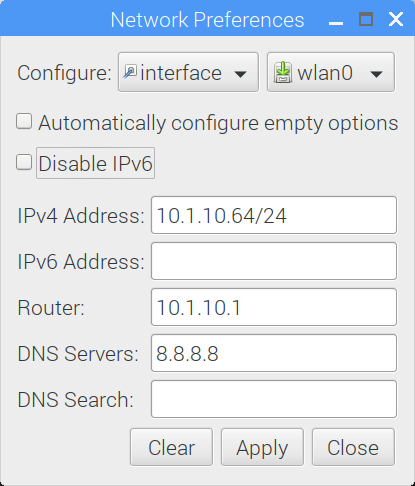
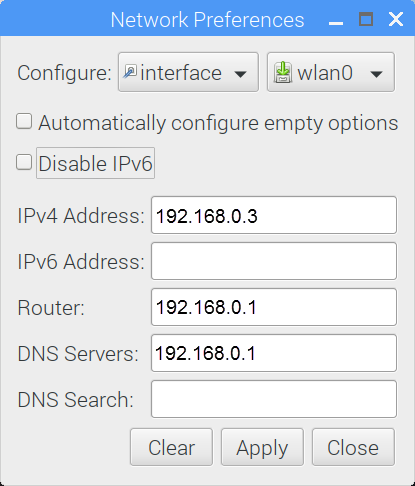
IMAC-21: Network config instuctions; plus other changes

Changed region(s): [[0.3759, 0.4321, 0.694, 0.463], [0.3759, 0.7099, 0.6361, 0.7407], [0.3759, 0.6173, 0.6361, 0.6481]]

diff --git a/website/static/css/custom.css b/website/static/css/custom.css
@@ -1,4 +1,9 @@
 /* your custom css */
+.wrapper {
+  margin: 0px;
+  max-width: 100%;
+}
+
 .tutorial-video {
   margin: 0;
 }
@@ -6,6 +11,12 @@
 .fbOpenSource {
   text-align: center;
 }
+
+@media only screen and (min-width: 1024px) {
+  .separateOnPageNav .wrapper,
+  .separateOnPageNav .headerWrapper.wrapper {
+    max-width: 100%;
+  }
 
 @media only screen and (min-device-width: 360px) and (max-device-width: 736px) {
   .homeWrapperBgImg img {

diff --git a/docs/intro.md b/docs/intro.md
@@ -4,15 +4,15 @@ title: Introduction
 sidebar_label: Introduction
 ---
 
-***INTELLIDRIVES MULTI-AXIS MOTION and AUTOMATION CONTROLLER*** is a network based general purpose motion/automation controller with embedded intuitive **IBLOCK®** programming capability.
+***IMAC or INTELLIDRIVES MULTI-AXIS MOTION and AUTOMATION CONTROLLER*** is a network based general purpose motion/automation controller with embedded intuitive visual programming capability.
 
-## Visual Block Programming Environment
+## IMAC Editor
 
-**IBLOCK®** visual block programming environment runs in the web browser on any hardware and software platforms. **IBLOCK®** uses functional blocks linked together to create complex multi-axis motion control sequences of different motor types interacting with digital and analog I/O and vision systems.
+**IMAC Editor** is software application that runs in the web browser and uses graphical blocks to create complex sequences for controlling different stepper and servo motors, digital and analog I/O and vision systems.
 
 ![Visual Block Programming Environment](assets/vbpi_1.png "Visual Block Programming Environment")
 
-**IBLOCK® Visual Editor** uses graphical blocks to represent motion commands, control of the input/output devices, variables, logic expressions, math, loops and more without having to worry about complexities of the programming languages.
+Graphical blocks represent motion commands, control of the input/output devices, variables, logic expressions, math, loops and more. User doesn't have to worry about complexities of the programming languages.
 
 ## Hardware
 
@@ -22,28 +22,14 @@ As a stand-alone controller, IMAC can take the place of a PC in a control system
 **IMAC** can also be configured to work in conjunction with a PC where the IMAC handles the real-time processes such as motion control and automation, and the PC is used as programming environment and GUI
 
 #### Main Features:
--	Multi-axis (up to 32 axes) motion control over distributed **INET®** network
--	Digital and Analog I/O handling over **INET®** network
+-	Multi-axis (up to 32 axes) motion control
+-	Handling Digital and Analog I/O
 -	Simple and Visual creation of complex machine operational sequences
--	No programming experience necessary, just lay **IBLOCKS** in sequence
+-	No programming experience necessary, just lay graphical blocks in sequence
 -	Graphical HMI Designer
 
 ![3-axis system with I/O data acquisition](assets/assembly.jpg "3-axis system with I/O data acquisition")
 3-axis system with I/O data acquisition
-
-## IDRIVES®
-
-**IDrives®** provide user with a performance edge. Advanced tuning and commutation algorithms, made possible by state-of-the-art DSP technology to maximize motor performance. **I-DRIVES®** offer a complete range of AC- and DC-powered digital drives for servo and stepper motors.
-
-![Amplifiers](assets/group_of_amps.jpg "Amplifiers")
-
-| Motor   | Rotary Servo and Stepper Motors<br> Linear Servo and Stepper Motors<br> Direct drive motors |
-| ------- | ------------------------------------------------------------------------------------------- |
-| Input power | 100-240 VAC<br> 24-90 VDC |
-| Feedback | Incremental<br> Analog 1Vpp<br> Absolute |
-| Digital I/O | Limit sensors |
-| Analog I/O | Home sensors<br> User input sourcing nad sinking sensors<br> Opto-isolated sensors<br> Outputs<br> Relay drivers<br> A/D<br> D/A |
-
 
 ## System Architecture
 

diff --git a/docs/net_config.md b/docs/net_config.md
@@ -4,17 +4,45 @@ title: Network configuration
 sidebar_label: Network configuration
 ---
 
-**IMAC** is preconfigured to get IP address automatically from DHCP server. If your network is configured to provide IP addresses automatically you are good. Setting the static IP addresses is the only case when user needs to configure IMAC network settings. To accomplish this task you follow instructions below:
+**IMAC** is preconfigured to get IP address automatically from DHCP server. If your network is configured to provide IP addresses automatically you are good. IMAC can be used in isolated networks where IMAC and user computer are connected directly over [Ethernet Crossover cable](https://en.wikipedia.org/wiki/Ethernet_crossover_cable) or using the router. To accomplish this task you follow instructions below:
+
+## Network configuration with static IP
+
+### User PC network configuration
+
+1. On user computer with Windows operating system go to Control Panel -> Network and Internet -> Network Connections
+
+![Windows: network connections](assets/net_config_win_1.png "Windows: network connections")
+
+2. Right click on Ethernet connection and select Properties.
+
+![Windows: Ethernet Properties](assets/net_config_win_2.png "Windows: Ethernet Properties")
+
+3. Scroll down, select TCP/IPv4 and click Properties
+
+  Configure TCP/IP properties 
+
+  A. For connection over crossover cable
+
+![Windows: TCP/IPv4 Properties](assets/net_config_win_3.png "Windows: TCP/IPv4 Properties")
+
+  B. For connection using router
+
+![Windows: TCP/IPv4 Properties](assets/net_config_win_4.png "Windows: TCP/IPv4 Properties")
+
+4. Apply changes and close dialog windows. Now you have to set up IMAC network configuration.
+
+### IMAC network configuration
 
 1.	Connect keyboard, mouse and HDMI monitor to IMAC. Power it up and wait OS loading is completed.
 
-![Standalone(No PC Required)](assets/arch_1.jpg "Standalone(No PC Required)")
+![IMAC plus monitor, keyboard and mouse](assets/net_config_1.jpg "IMAC plus monitor, keyboard and mouse")
 
 2.	Right click on the icon as shown and left click Wireless & Wired Network Settings.
 
 ![Wireless & Wired Network Settings](assets/net_config_2.png "Wireless & Wired Network Settings")
 
-3.	Select the interface. Select `eth0` for wired or `wlan0` for wireless. Assign IP address from the range your network is working. For example, type `10.1.10.64/24` to assign `10.1.10.64` IP address to **IMAC**. Assign the IP address of your router – `10.1.10.1`. Assign the address of DNS server. `8.8.8.8` – is the IP address of Google DNS server. You can choose different if you want. Click Apply. In case you are configuring wireless connection the additional step is required.
+3.	Select the interface. Select `eth0` for wired or `wlan0` for wireless. Assign IP address from the range your network is working. Type `192.168.0.3/24` to assign `192.168.0.3` IP address to **IMAC**. Assign the IP address of your router – `192.168.0.1`. Assign the address of DNS server - `192.168.0.1`. Click Apply. In case you are configuring wireless connection the additional step is required.
 
 ![Wired Network Settings](assets/net_config_3_eth0.png "Wired Network Settings")
 

diff --git a/docs/supported_devices.md b/docs/supported_devices.md
@@ -1,0 +1,24 @@
+---
+id: supported_devices
+title: Supported devices
+sidebar_label: Supported devices
+---
+
+## Motion control
+
+### IDRIVES®
+
+**IDrives®** provide user with a performance edge. Advanced tuning and commutation algorithms, made possible by state-of-the-art DSP technology to maximize motor performance. **I-DRIVES®** offer a complete range of AC- and DC-powered digital drives for servo and stepper motors.
+
+![Amplifiers](assets/group_of_amps.jpg "Amplifiers")
+
+| Motor   | Rotary Servo and Stepper Motors<br> Linear Servo and Stepper Motors<br> Direct drive motors |
+| ------- | ------------------------------------------------------------------------------------------- |
+| Input power | 100-240 VAC<br> 24-90 VDC |
+| Feedback | Incremental<br> Analog 1Vpp<br> Absolute |
+| Digital I/O | Limit sensors |
+| Analog I/O | Home sensors<br> User input sourcing nad sinking sensors<br> Opto-isolated sensors<br> Outputs<br> Relay drivers<br> A/D<br> D/A |
+
+## I/O devices
+
+### SeaDAC

diff --git a/docs/get_started.md b/docs/get_started.md
@@ -4,18 +4,19 @@ title: Getting Started
 sidebar_label: Getting Started
 ---
 
-To start **IMAC** application, open web browser (Google Chrome is recommended for **IMAC**) and type `imac:5000` in the browser address bar.
+To start **IMAC Editor**, open web browser (Google Chrome is recommended for **IMAC**) and type `imac:5000` in the browser address bar.
 
-## User Interface
-
-IMAC application contains four areas:
+IMAC Editor contains four areas:
 
 1. Main Menu
 2. Block palette
 3. Visual Programming Workspace
+4. Device control panel
 4. Terminal
 
-![Visual Block Programming Environment](assets/vbpi.png "Visual Block Programming Environment")
+![Visual Block Programming Environment](assets/editor_1.png "Visual Block Programming Environment")
+
+## Main menu
 
 ## Block Palette
 
